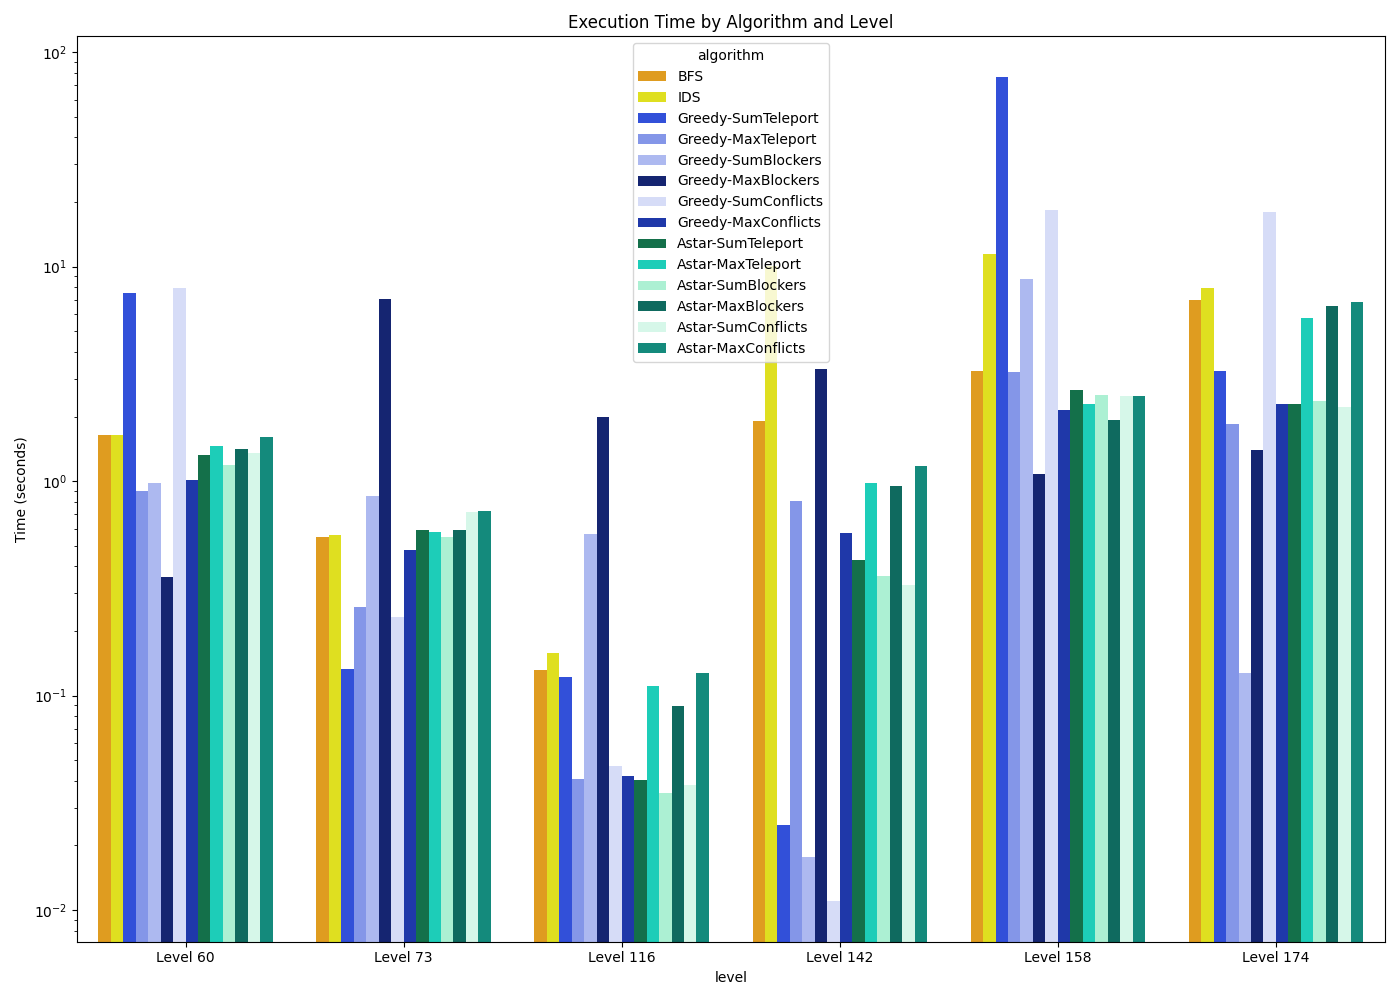
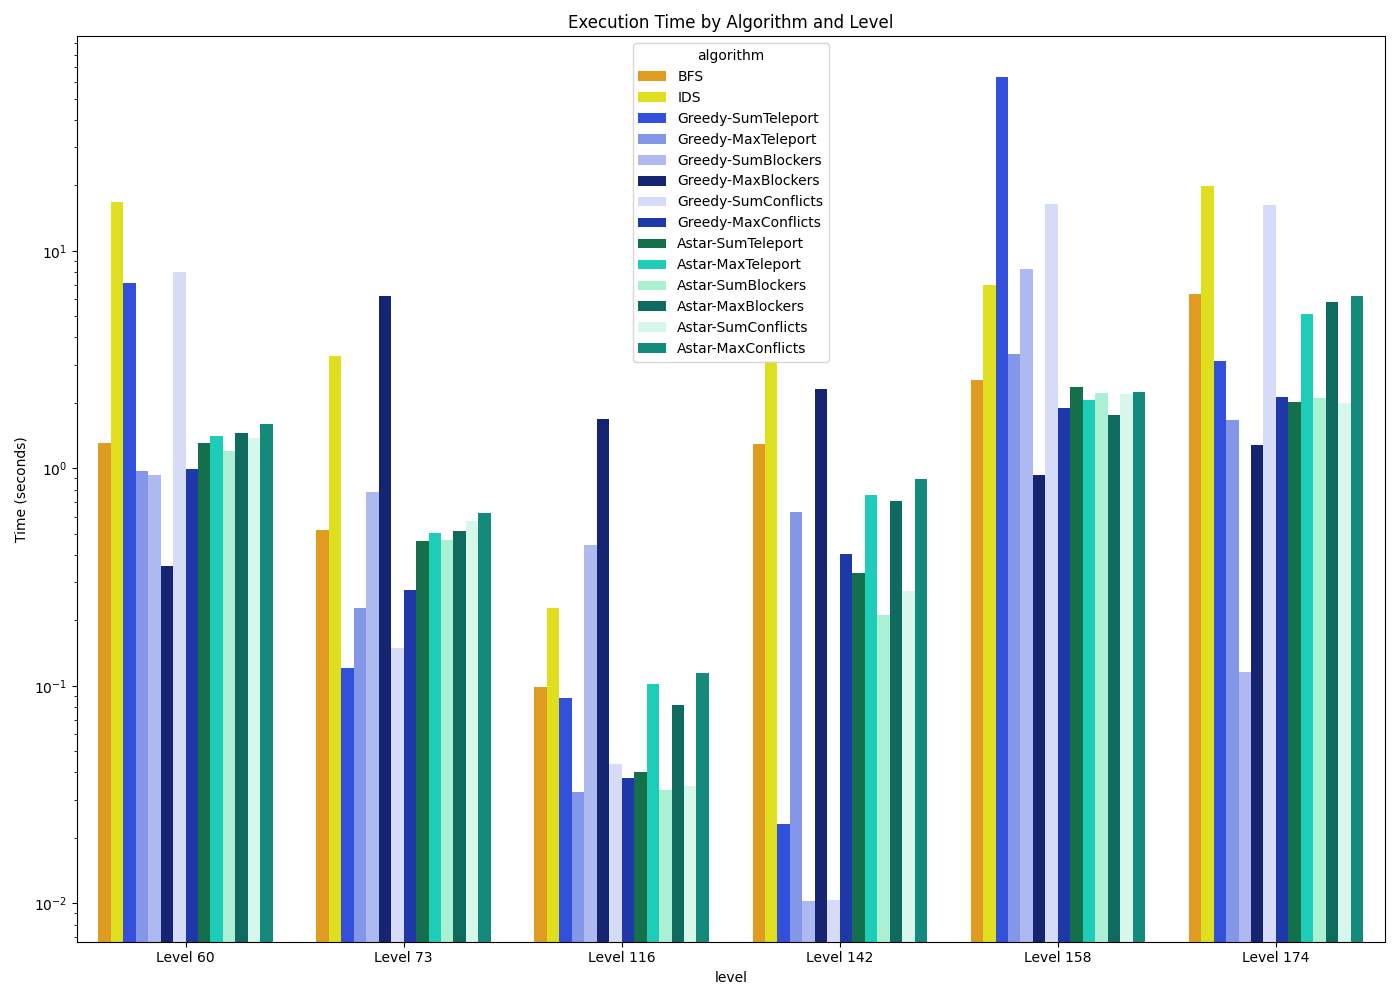
Change DFS of varying depth to IDS

diff --git a/search_algorithm.py b/search_algorithm.py
@@ -1,6 +1,5 @@
 import heapq
 from abc import ABC, abstractmethod
-from math import floor
 from typing import List, Set, Tuple
 
 from game_state import GameState
@@ -59,55 +58,55 @@ class BFS(SearchAlgorithm):
 class IDS(SearchAlgorithm):
     """Iterative Deepening Search algorithm."""
 
-    def __init__(self, initial_state: GameState, optimal_moves: int = None):
+    def __init__(self, initial_state: 'GameState', optimal_moves: int = None):
         """Initializes the IDS algorithm.
 
         Args:
             initial_state (GameState): The initial state of the game.
-            optimal_moves (int, optional): The optimal number of moves. Defaults to 20.
+            optimal_moves (int, optional): The maximum depth to search. Defaults to 15.
         """
         super().__init__(initial_state)
-        self.optimal_moves = optimal_moves if optimal_moves is not None else 20  # fallback to 20 if not provided
-    
+        self.optimal_moves = optimal_moves if optimal_moves is not None else 15
+
     def solve(self) -> Tuple[List[str], int]:
+        """Solves the game using Iterative Deepening Search."""
         self.metrics_collector.start()
-        max_depth = floor(1.5*self.optimal_moves)  # Use 1.5 * optimal_moves as max_depth to give IDS a chance to find a solution
-        
-        for depth in range(1, max_depth + 1):
-            visited_hashes = set()
-            result = self._dfs_limited(self.initial_state, [], 0, depth, visited_hashes)
+
+        for depth_limit in range(self.optimal_moves + 1):  # Iterate through depths
+            visited_hashes = set()  # Reset visited_hashes for each depth
+            result = self._dls(self.initial_state, [], 0, depth_limit, visited_hashes)
             if result:
                 self.metrics_collector.stop()
                 return result
-                
+
         self.metrics_collector.stop()
         return None, None
-    
-    def _dfs_limited(self, state: GameState, path: List[str], current_depth: int, 
-                    max_depth: int, visited_hashes: Set[int]) -> Tuple[List[str], int]:
-        """Depth-limited search helper function."""
+
+    def _dls(self, state: 'GameState', path: List[str], current_depth: int, depth_limit: int, visited_hashes: Set[int]) -> Tuple[List[str], int]:
+        """Depth-Limited Search helper function."""
         self.metrics_collector.track_state()
-        
+
         if state.is_solved():
             return path, len(path)
-            
-        if current_depth >= max_depth:
-            return None
-            
+
+        if current_depth == depth_limit:
+            return None  # Cutoff
+
         state_hash = hash(state)
         if state_hash in visited_hashes:
             return None
-            
+
         visited_hashes.add(state_hash)
-        
+
         for move in POSSIBLE_MOVES:
             next_state = move.apply(state)
             if next_state:
                 new_path = path + [type(move).__name__]
-                result = self._dfs_limited(next_state, new_path, current_depth + 1, max_depth, visited_hashes)
+                # Pass a copy of visited_hashes to avoid modifying the parent's set
+                result = self._dls(next_state, new_path, current_depth + 1, depth_limit, visited_hashes.copy())
                 if result:
                     return result
-                    
+
         return None
 
 class GreedySearch(SearchAlgorithm):
